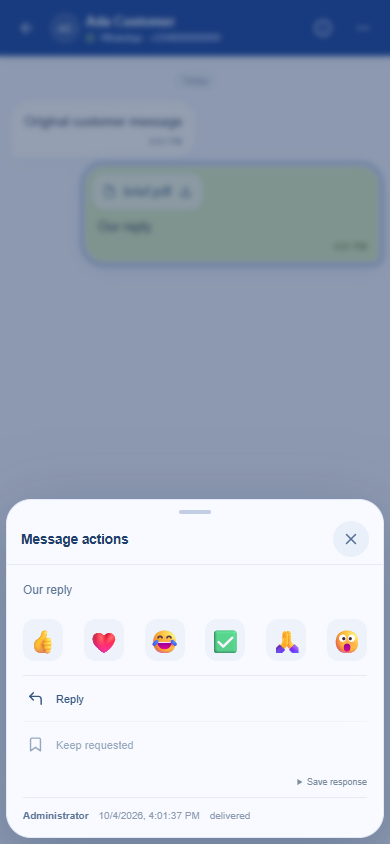
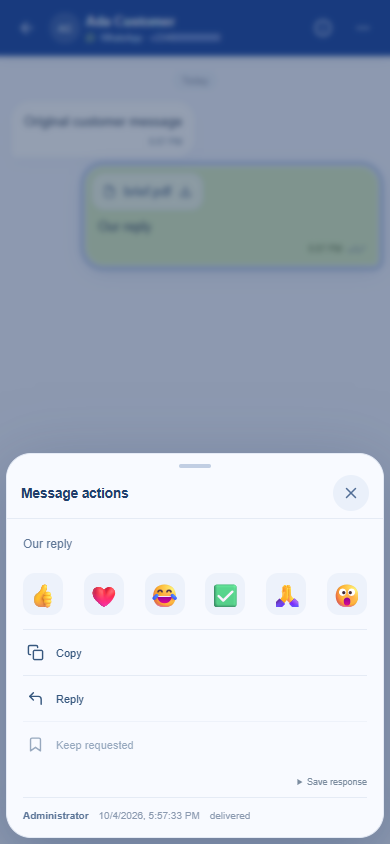
added joshspot inboxe

diff --git a/components/inbox/CustomerDetails.js b/components/inbox/CustomerDetails.js
@@ -39,7 +39,7 @@ export default function CustomerDetails({ conversation, session, canEdit, onClos
     finally { setSaving(false); }
   };
   const content = <>
-    <div className={s.contactHero}><span className={s.avatar}>{initials(fields.name || fields.phone)}</span><strong>{fields.name || 'WhatsApp contact'}</strong><a href={`tel:+${fields.phone}`}>+{fields.phone}</a><span className={s.customerBadge}>{conversation.contact.status}</span></div>
+    <div className={s.contactHero}><span className={s.avatar}>{initials(fields.name || fields.phone)}</span><strong>{fields.name || 'WhatsApp contact'}</strong><span>{session.actor.admin ? <a href={`tel:+${fields.phone}`}>+{fields.phone}</a> : `+${fields.phone}`}</span><span className={s.customerBadge}>{conversation.contact.status}</span></div>
     {error && <div className={s.error} role="alert">{error}</div>}
     <details className={s.detailSection}><summary><FiUser />Customer</summary><form className={s.form} onSubmit={save}>{['name', 'email', 'source', 'service'].map((key) => <label key={key}>{({ name: 'Name', email: 'Email', source: 'Lead source', service: 'Interested in' })[key]}<input type={key === 'email' ? 'email' : 'text'} maxLength={key === 'email' ? 254 : 120} disabled={!canEdit} value={fields[key] || ''} placeholder="Not provided" onChange={(event) => setFields({ ...fields, [key]: event.target.value })} /></label>)}<label>Customer status<select disabled={!canEdit} value={fields.status} onChange={(event) => setFields({ ...fields, status: event.target.value })}><option value="lead">Lead</option><option value="customer">Customer</option><option value="inactive">Inactive</option></select></label><div className={s.saveRow}>{canEdit && <button className={s.secondary} disabled={saving}>{saving ? 'Saving…' : 'Save changes'}</button>}<span role="status" className={s.saved}>{saved}</span></div></form></details>
     <details className={s.detailSection}><summary><FiClock />Conversation{conversation.followUpAt && conversation.status === 'follow_up' && <i className={s.sectionDot} />}</summary><div className={s.sectionBody}><div className={s.mobileAssignment}><label>Assigned representative<select aria-label="Mobile assigned representative" disabled={!session.actor.admin || saving} value={conversation.assignedTo || ''} onChange={(event) => change({ assignedTo: event.target.value || null })}><option value="">Unassigned</option>{session.staff.map((person) => <option key={person._id} value={person._id}>{person.name}</option>)}</select></label>{!session.actor.admin && !conversation.assignedTo && <button className={s.secondary} disabled={saving} onClick={() => change({ assignedTo: session.actor.id })}>Assign to me</button>}</div><dl><dt>Assigned to</dt><dd>{session.staff.find((person) => person._id === conversation.assignedTo)?.name || 'Unassigned'}</dd><dt>Status</dt><dd>{conversation.status.replace('_', ' ')}</dd><dt>First contact</dt><dd>{fullDate(conversation.createdAt)}</dd><dt>Last message</dt><dd>{fullDate(conversation.lastInboundAt)}</dd></dl>{canEdit && <form className={s.form} onSubmit={async (event) => { event.preventDefault(); if (when) await change({ followUpAt: new Date(when).toISOString() }); }}><label>Follow up at<input aria-label="Follow-up date and time" type="datetime-local" required value={when} onChange={(event) => setWhen(event.target.value)} /></label><div className={s.saveRow}><button className={s.secondary}>Schedule</button>{conversation.followUpAt && <button className={s.textButton} type="button" onClick={async () => { if (await change({ followUpAt: null })) setWhen(''); }}>Clear</button>}</div></form>}{conversation.followUpAt && <p className={s.detailHint}>Scheduled: {fullDate(conversation.followUpAt)}</p>}</div></details>

diff --git a/components/inbox/MessageMenu.js b/components/inbox/MessageMenu.js
@@ -1,16 +1,17 @@
 import { useEffect, useState } from 'react';
-import { FiCornerUpLeft, FiBookmark } from 'react-icons/fi';
+import { FiCornerUpLeft, FiBookmark, FiCopy, FiCheck } from 'react-icons/fi';
 import Modal from './Modal';
 import MessageReactions from './MessageReactions';
 import { inboxApi, fullDate } from './api';
 import s from '../../styles/Inbox.module.css';
 export default function MessageMenu({message,conversationId,session,canReply,onReply,onClose,onUpdate}) {
- const [info,setInfo]=useState(null),[busy,setBusy]=useState(false),[error,setError]=useState('');
+ const [info,setInfo]=useState(null),[busy,setBusy]=useState(false),[error,setError]=useState(''),[copied,setCopied]=useState(false);
  useEffect(()=>{let active=true;if(message.media?.id)inboxApi(`/conversations/${conversationId}/messages/${message._id}/media-info`).then(data=>{if(active)setInfo(data);}).catch(e=>{if(active)setError(e.message);});return()=>{active=false;};},[conversationId,message._id,message.media?.id]);
  const replyable=canReply&&message.providerId&&message.direction!=='internal'&&!['queued','sending','failed','unknown'].includes(message.status);
  return <Modal title="Message actions" onClose={onClose}><div className={s.messageMenuBody}>
  <p className={s.messageMenuPreview}>{message.text||`[${message.type}]`}</p>
  <MessageReactions menuMode message={message} conversationId={conversationId} actor={session.actor} canReply={canReply} onUpdate={async()=>{await onUpdate();onClose();}} onError={setError}/>
+ {message.text&&<button className={s.messageMenuItem} onClick={async()=>{setError('');try{await navigator.clipboard.writeText(message.text);setCopied(true);}catch{setError('Could not copy this message. Please allow clipboard access and try again.');}}}>{copied?<FiCheck/>:<FiCopy/>}<span aria-live="polite">{copied?'Copied':'Copy'}</span></button>}
  {replyable&&<button className={s.messageMenuItem} onClick={()=>{onReply(message);onClose();}}><FiCornerUpLeft/>Reply</button>}
  {message.media?.id&&<button className={s.messageMenuItem} disabled={busy||!info||(info.keep&&info.state!=='failed')} onClick={async()=>{setBusy(true);setError('');try{setInfo(await inboxApi(`/conversations/${conversationId}/messages/${message._id}/media-keep`,{method:'PUT',body:{keep:true}}));}catch(e){setError(e.message);}finally{setBusy(false);}}}><FiBookmark/>{busy?'Saving…':info?.keep?(info.state==='ready'?'Media saved':info.state==='failed'?'Retry saving media':'Keep requested'):'Keep media'}</button>}
  {session.actor.admin&&message.direction==='outbound'&&message.author!=='ai'&&<details className={s.promoteResponse}><summary>Save response</summary>{[['knowledge','Add to knowledge'],['tone','Add tone example'],['response','Create saved response']].map(([kind,label])=><button key={kind} disabled={busy} onClick={async()=>{setBusy(true);try{await inboxApi(`/ai/promote/${message._id}`,{method:'POST',body:{kind}});onClose();}catch(e){setError(e.message);}finally{setBusy(false);}}}>{label}</button>)}</details>}

diff --git a/components/inbox/api.js b/components/inbox/api.js
@@ -1,3 +1,19 @@
+let sessionIdentity = null;
+function privatePhoneFields(value) {
+  if (Array.isArray(value)) return value.map(privatePhoneFields);
+  if (!value || typeof value !== 'object') return value;
+  return Object.fromEntries(Object.entries(value).map(([key, item]) => {
+    if (/^(phone|customerPhone|clientNumber|phoneNumber|mobile|telephone)$/i.test(key) && typeof item === 'string') {
+      const digits = item.replace(/\D/g, '');
+      if (digits && !item.includes('*')) {
+        const visible = Math.min(5, Math.max(1, digits.length - 5));
+        item = (key === 'phone' && !item.startsWith('+') ? '' : '+') + digits.slice(0, visible) + '*'.repeat(Math.max(4, digits.length - visible - 1)) + digits.slice(-1);
+      }
+      return [key, item];
+    }
+    return [key, privatePhoneFields(item)];
+  }));
+}
 export async function inboxApi(path, options = {}) {
   const token = localStorage.getItem('adminToken') || localStorage.getItem('crmToken');
   const response = await fetch(options.backendUrl || `/api/inbox${path}`, { signal: AbortSignal.timeout(30000), ...options, headers: { Authorization: `Bearer ${token || ''}`, ...(options.body ? { 'Content-Type': 'application/json' } : {}), ...options.headers }, ...(options.body && typeof options.body !== 'string' ? { body: JSON.stringify(options.body) } : {}) });
@@ -5,7 +21,10 @@ export async function inboxApi(path, options = {}) {
     const result = await response.json().catch(() => ({}));
     throw Object.assign(new Error(result.message || 'Something went wrong. Please try again.'), { status: response.status });
   }
-  return options.blob ? response.blob() : response.json();
+  if (options.blob) return response.blob();
+  const data = await response.json();
+  if (path === '/session') sessionIdentity = { token, admin: data.actor?.admin === true };
+  return sessionIdentity?.token === token && sessionIdentity.admin ? data : privatePhoneFields(data);
 }
 export const initials = (name) => (name || '?').split(/\s+/).slice(0, 2).map((word) => word[0]).join('').toUpperCase();
 export const shortTime = (date) => date ? new Intl.DateTimeFormat('en', { hour: 'numeric', minute: '2-digit' }).format(new Date(date)) : '';

diff --git a/components/inbox/Conversation.js b/components/inbox/Conversation.js
@@ -1,3 +1,4 @@
+import MessageText from './MessageText';
 import { ChatSkeleton, RowsSkeleton } from './Skeleton';
 import MessageBubble from './MessageBubble';
 import MessageMenu from './MessageMenu';
@@ -147,7 +148,7 @@ export default function Conversation({ id, targetNote, session, onBack, onUpdate
 
           {message.type === 'note' && <b className={s.messageLabel}><FiLock /> Internal note</b>}{message.type === 'template' && <b className={s.messageLabel}>WhatsApp template</b>}
           {message.media?.id && <MediaAttachment conversationId={id} message={message} onError={setError} />}
-          <div className={s.messageText}>{message.media?.id && /^\[(audio|video|image|sticker|document) message\]$/.test(message.text) ? '' : noteText(message, session.staff)}</div><footer className={s.messageFooter}><span>{shortTime(message.occurredAt || message.createdAt)}</span>{message.direction === 'outbound' && <MessageStatus status={message.status} />}</footer>
+          <div className={s.messageText}>{message.media?.id && /^\[(audio|video|image|sticker|document) message\]$/.test(message.text) ? '' : <MessageText>{noteText(message, session.staff)}</MessageText>}</div><footer className={s.messageFooter}><span>{shortTime(message.occurredAt || message.createdAt)}</span>{message.direction === 'outbound' && <MessageStatus status={message.status} />}</footer>
           {message.error && <div className={s.sendError}>{message.error}{message.status === 'failed' && canReply && <button onClick={async () => { try { await inboxApi(`/conversations/${id}/messages/${message._id}/retry`, { method: 'POST', body: {} }); await refresh(); } catch (err) { setError(err.message); } }}>Retry message</button>}</div>}
 
         </MessageBubble>}</div>;

diff --git a/styles/Inbox.module.css b/styles/Inbox.module.css
@@ -130,3 +130,5 @@
 .bubble .messageFooter{gap:4px;flex-wrap:nowrap}.composerLine>.send{min-width:66px;justify-content:center}.sendSpinner{display:block;flex-shrink:0;box-sizing:border-box;width:14px;height:14px;border:1.5px solid currentColor;border-right-color:transparent;border-radius:50%;animation:sendSpin .7s linear infinite}@keyframes sendSpin{to{transform:rotate(360deg)}}@media(prefers-reduced-motion:reduce){.sendSpinner{animation-duration:1.5s}}
 
 .rowMeta .unassignedSparkle{margin-left:auto;display:inline-flex;align-items:center;justify-content:center;flex-shrink:0;color:#6883b4;width:16px;height:16px}.rowMeta .unassignedSparkle svg{width:14px;height:14px}
+
+.messageText a{color:#245bb2;text-decoration:underline;overflow-wrap:anywhere;text-underline-offset:2px}

diff --git a/components/inbox/MessageText.js b/components/inbox/MessageText.js
@@ -1,0 +1,9 @@
+export default function MessageText({ children }) {
+  if (Array.isArray(children)) return children.map((part, index) => <MessageText key={index}>{part}</MessageText>);
+  if (typeof children !== 'string') return children;
+  return children.split(/((?:https?:\/\/|www\.)[^\s<>]+)/gi).map((part, index) => {
+    if (!/^(https?:\/\/|www\.)/i.test(part)) return part;
+    const url = part.replace(/[.,!?;:)]+$/, '');
+    return <span key={index}><a href={/^www\./i.test(url) ? `https://${url}` : url} target="_blank" rel="noopener noreferrer" onClick={event => event.stopPropagation()}>{url}</a>{part.slice(url.length)}</span>;
+  });
+}
